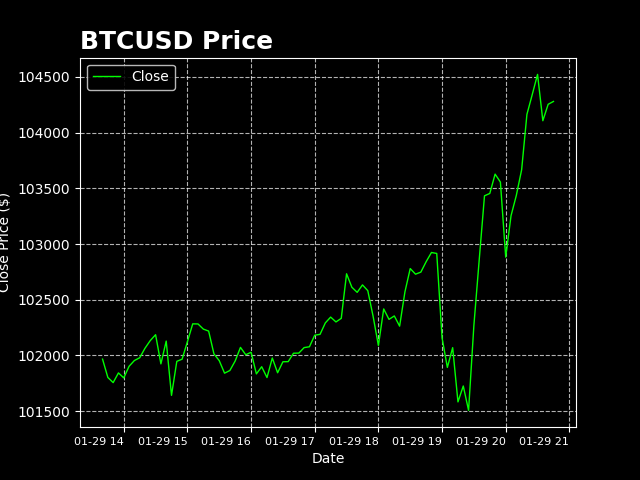
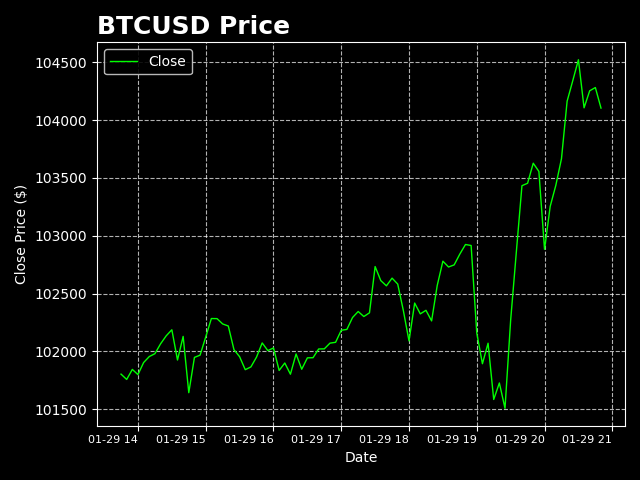
checking

diff --git a/Statistic.py b/Statistic.py
@@ -43,7 +43,7 @@ class Statistic:
     #read the csv file to be plot
     #The plot update with new data being written into the csv
     def graph(self):
-        plt.tight_layout()
+        
         self.format_graph(
         title   = f"{self.file_name} Price",
         xlabel  = 'Date', 
@@ -56,11 +56,8 @@ class Statistic:
         plt.plot(x, y_close, label='Close', color='lime')
         #plt.plot(x, y_high, label='High', color='red', linestyle='-', linewidth=1.5)
         
-
-
         plt.legend(loc='best') 
-        #plt.tight_layout()  # Automatically adjust subplot parameters to give some padding
-
+        plt.tight_layout()
 
         plt.savefig(f"{self.file_name}.png")
         plt.show()
@@ -81,7 +78,7 @@ class Statistic:
             'legend.frameon': True,     # Frame around legend
             'legend.framealpha': 0.9,   # Slight transparency for legend frame
             'legend.fancybox': True,    # Rounded box for legend
-            'figure.figsize': (12, 6)      # Standard figure size
+            'figure.figsize': (8, 5)      # Standard figure size
         })
 
         plt.xticks(rotation=0, ha='right', fontsize=8)
